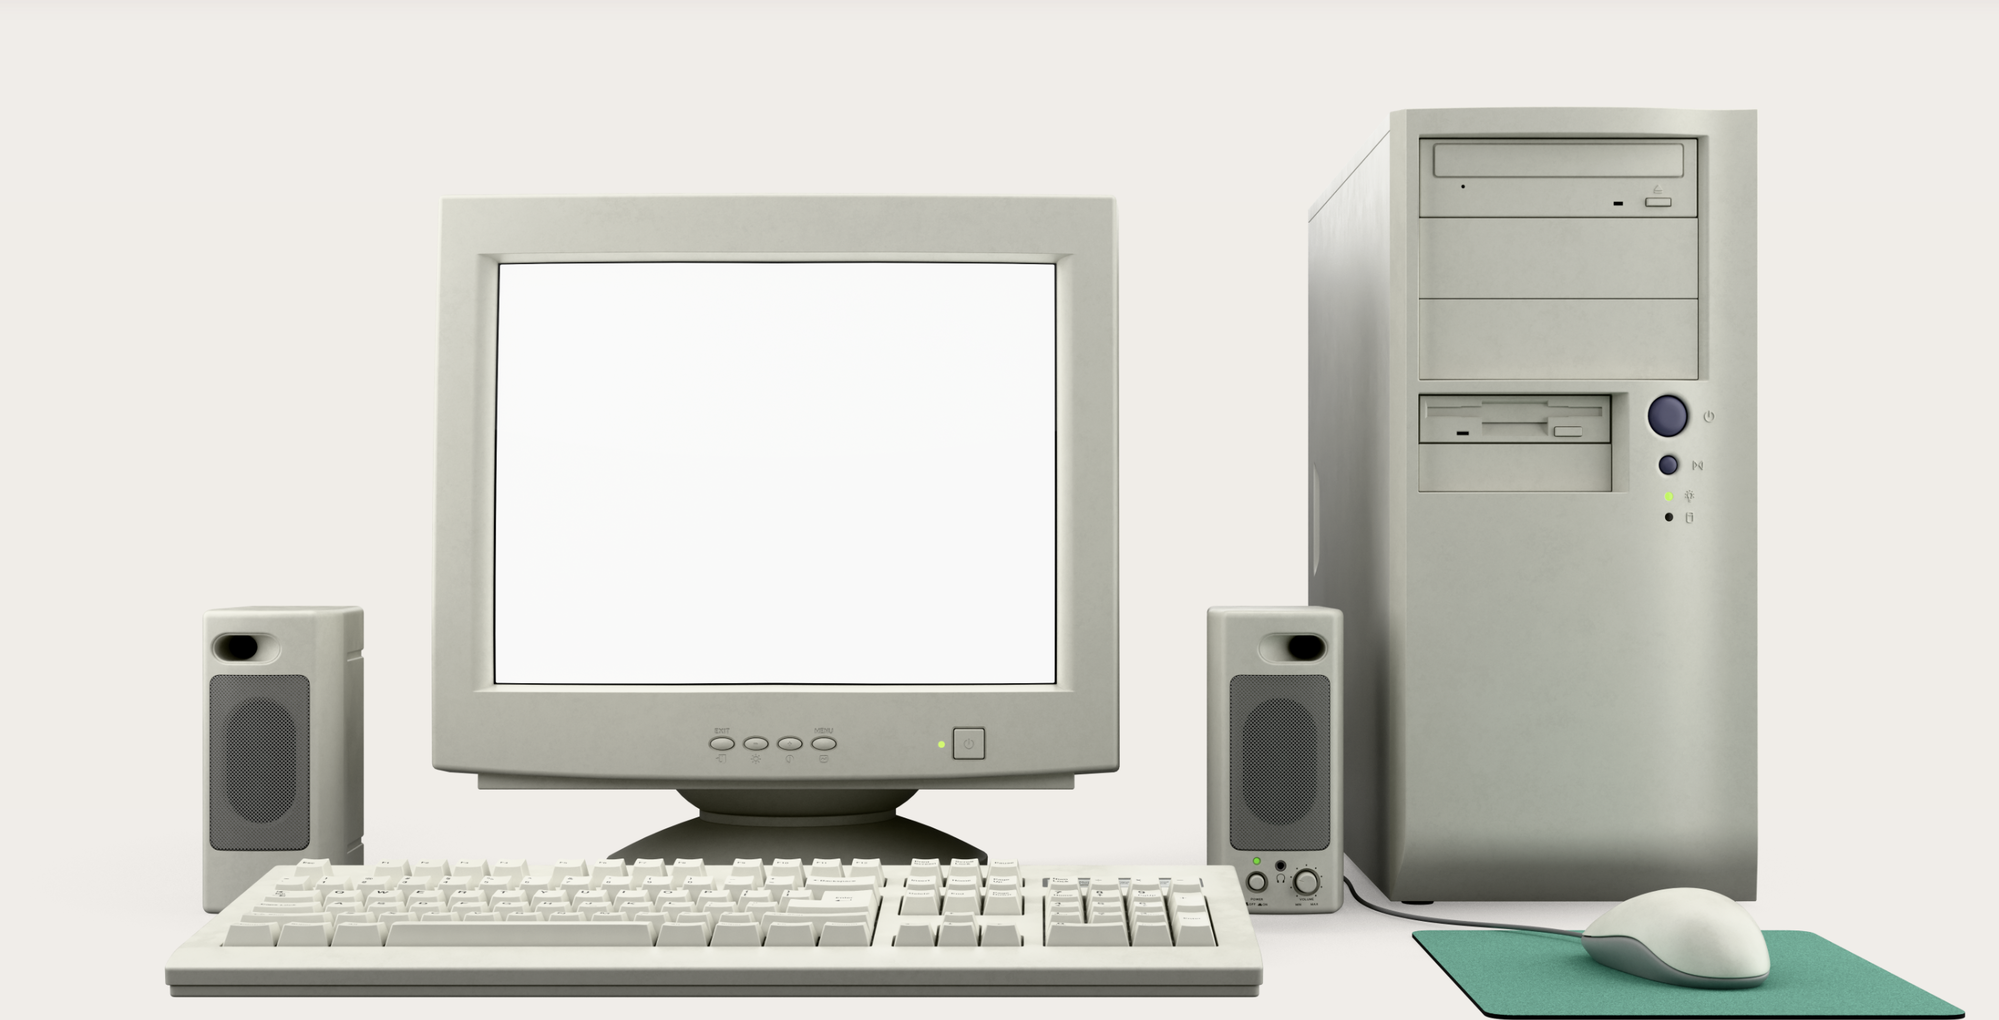
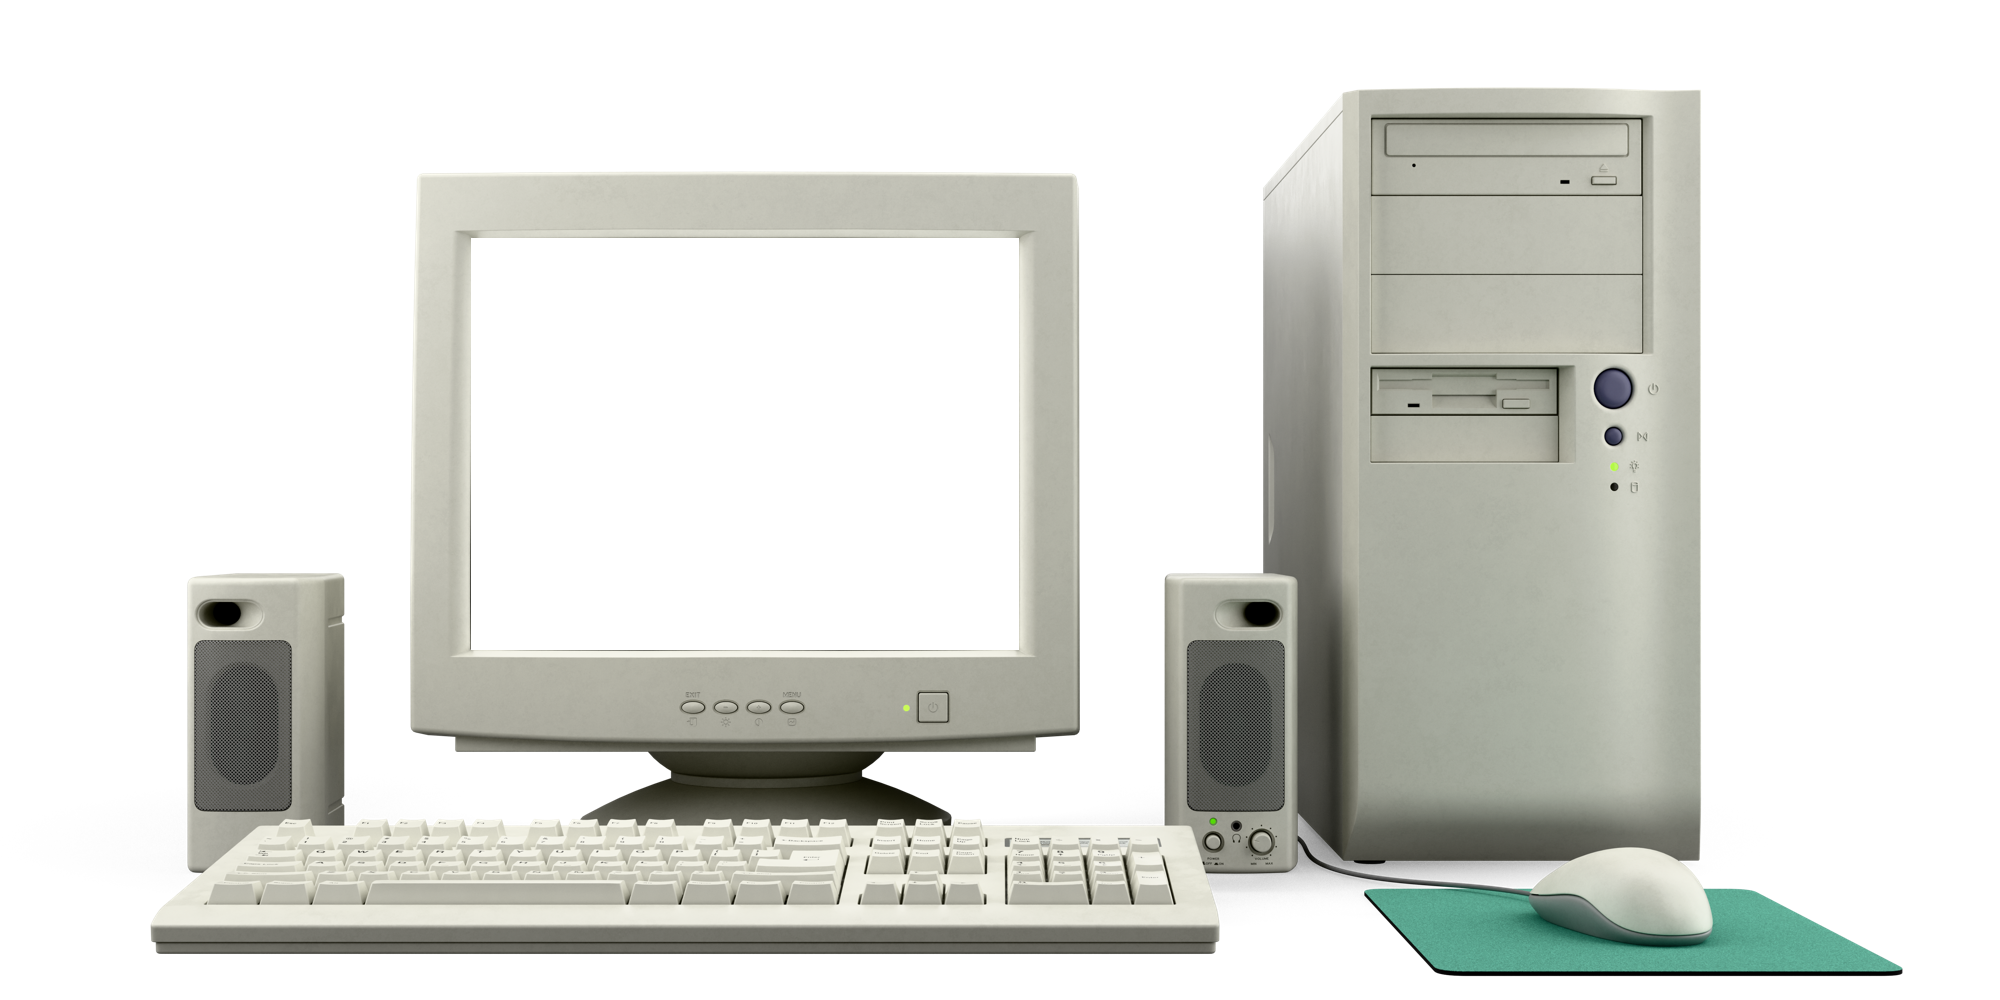
Refine CRT monitor screen, nav, and share scene for desktop/mobile
- Punch transparent hole in tvstock1.png at exact screen area with dark
  rim preserved; remove white transition and shadow ring pixels so game
  fills cleanly to the gray bezel
- Position iframe/screen-fx to match the transparent hole precisely
- Fix dark rim rows accidentally zeroed by earlier flood-fill passes
- Cap monitor width with min(100%, 2*(100dvh-4rem)) to prevent scrolling
- Tighten nav padding and reduce page-wrap top margin (4.5rem → 2rem)
- Center monitor horizontally on mobile; adjust top offset
- Add center grain line on portrait share scene table so gap is even
- Adjust share scene camera on mobile to frame vase/cups better
- Increase brand font size (2.8rem desktop, 2.0rem mobile)

Changed region(s): [[0.062, 0.062, 0.9925, 1.0], [0.0, 0.0, 1.0, 0.031]]

diff --git a/index.html b/index.html
@@ -29,7 +29,7 @@
 
     body {
       font-family: 'Lora', serif;
-      background: var(--bg);
+      background: var(--panel);
       color: var(--dark);
       min-height: 100vh;
     }
@@ -42,12 +42,12 @@
       display: flex;
       align-items: center;
       justify-content: space-between;
-      padding: 1.1rem 2.5rem;
+      padding: 0.6rem 2.5rem;
       background: var(--panel);
     }
     .brand {
       font-family: 'Dirtyline', serif;
-      font-size: 1.9rem;
+      font-size: 2.8rem;
       font-weight: normal;
       font-style: normal;
       color: var(--dark);
@@ -89,27 +89,6 @@
     .tab-panel.hidden { display: none; }
 
     /* ── HOME: POTTERY WHEEL ── */
-    .home-footer {
-      display: flex;
-      justify-content: center;
-      gap: 2.5rem;
-      padding: 1.6rem 2rem;
-      background: var(--panel);
-    }
-    .home-footer a {
-      display: flex;
-      align-items: center;
-      gap: 0.5rem;
-      text-decoration: none;
-      color: var(--mid);
-      font-size: 0.8rem;
-      font-weight: 700;
-      letter-spacing: 0.1em;
-      text-transform: uppercase;
-      transition: color 0.2s, transform 0.2s;
-    }
-    .home-footer a:hover { color: var(--dark); transform: translateY(-2px); }
-    .home-footer svg { width: 20px; height: 20px; }
     /* ── HOME: COMPUTER PHOTO FRAME ── */
     .monitor-scene {
       position: relative;
@@ -117,8 +96,9 @@
     }
     .monitor-frame {
       position: relative;
-      width: 100%;
-      aspect-ratio: 1999 / 1020;
+      width: min(100%, calc(2 * (100dvh - 4rem)));
+      margin-left: 0;
+      aspect-ratio: 2000 / 1000;
     }
     .monitor-svg {
       position: absolute;
@@ -130,20 +110,20 @@
     }
     .monitor-iframe {
       position: absolute;
-      top: 25.3%;
-      left: 24.5%;
-      width: 28.8%;
-      height: 42.1%;
+      top: 23.3%;
+      left: 23.05%;
+      width: 28.4%;
+      height: 42.2%;
       border: none;
       z-index: 1;
     }
     /* CRT scanlines + vignette over the screen */
     .screen-fx {
       position: absolute;
-      top: 25.3%;
-      left: 24.5%;
-      width: 28.8%;
-      height: 42.1%;
+      top: 23.3%;
+      left: 23.05%;
+      width: 28.4%;
+      height: 42.2%;
       pointer-events: none;
       z-index: 3;
     }
@@ -166,7 +146,7 @@
     .monitor-frame { transition: opacity 0.5s ease; }
     .play-screen {
       position: absolute;
-      top: 25.3%; left: 24.5%; width: 28.8%; height: 42.1%;
+      top: 23.3%; left: 23.05%; width: 28.4%; height: 42.2%;
       z-index: 6; cursor: pointer;
       display: flex; align-items: center; justify-content: center;
       animation: playscreenin 0.7s ease 4s both;
@@ -251,7 +231,7 @@
     /* ── SHARED PAGE LAYOUT ── */
     .page-wrap {
       width: min(900px, 92vw);
-      margin: 4.5rem auto 7rem;
+      margin: 2rem auto 7rem;
     }
     .page-header { margin-bottom: 3rem; }
     .section-eyebrow {
@@ -719,7 +699,9 @@
 
     /* ── MOBILE ── */
     @media (max-width: 680px) {
-      nav { padding: 1rem 1.2rem; }
+      nav { padding: 1rem 1.2rem; align-items: center; }
+      .brand { font-size: 2.0rem; display: flex; align-items: center; }
+      .nav-hamburger { align-self: center; padding: 0; }
       .nav-hamburger { display: flex; }
       .nav-tabs {
         display: none;
@@ -745,17 +727,9 @@
       .contact-grid { grid-template-columns: 1fr; }
       .page-wrap { margin-top: 1.5rem; }
 
-      /* pottery wheel: crop to just the monitor on mobile */
-      .monitor-scene {
-        height: 380px;
-        overflow: hidden;
-      }
-      .monitor-frame {
-        position: absolute;
-        width: 270%;
-        left: -52%;
-        top: -50px;
-      }
+      /* fill viewport below nav on mobile */
+      .monitor-scene { height: calc(100dvh - 64px); overflow: hidden; }
+      .monitor-frame { position: absolute; width: 270%; left: -50.6%; top: 20px; }
 
     }
   </style>
@@ -790,35 +764,18 @@
         <div class="screen-fx"></div>
         <div class="play-screen" id="play-screen">
           <svg class="play-btn" viewBox="0 0 100 100" xmlns="http://www.w3.org/2000/svg">
-            <circle cx="50" cy="50" r="44" fill="rgba(0,0,0,0.12)" stroke="rgba(0,0,0,0.75)" stroke-width="2.5"/>
-            <polygon points="38,28 76,50 38,72" fill="rgba(0,0,0,0.85)"/>
+            <circle cx="50" cy="50" r="44" fill="rgba(0,0,0,0.12)" stroke="rgba(60,60,60,0.75)" stroke-width="2.5"/>
+            <polygon points="38,28 76,50 38,72" fill="rgba(60,60,60,0.85)"/>
           </svg>
         </div>
-        <svg class="monitor-svg" viewBox="0 0 1999 1020" xmlns="http://www.w3.org/2000/svg" aria-hidden="true">
-          <defs>
-            <mask id="screen-mask">
-              <rect width="1999" height="1020" fill="white"/>
-              <rect x="495" y="262" width="563" height="423" fill="black" rx="4" ry="4"/>
-            </mask>
-          </defs>
-          <image href="images/tvstock1.png" width="1999" height="1020" mask="url(#screen-mask)"/>
+        <svg class="monitor-svg" viewBox="0 0 2000 1000" xmlns="http://www.w3.org/2000/svg" aria-hidden="true">
+          <image href="images/tvstock1.png" width="2000" height="1000"/>
         </svg>
       </div>
 
       <div class="wheel-fullscreen" id="wheel-fullscreen">
         <iframe id="wheel-fullscreen-iframe" title="Pottery Wheel Full" scrolling="no"></iframe>
       </div>
-    </div>
-
-    <div class="home-footer">
-      <a href="https://instagram.com/mintyrachel" target="_blank" rel="noopener" aria-label="Instagram">
-        <svg viewBox="0 0 24 24" fill="none" stroke="currentColor" stroke-width="1.8" stroke-linecap="round" stroke-linejoin="round">
-          <rect x="2" y="2" width="20" height="20" rx="5" ry="5"/>
-          <circle cx="12" cy="12" r="4"/>
-          <circle cx="17.5" cy="6.5" r="0.8" fill="currentColor" stroke="none"/>
-        </svg>
-        <span>@mintyrachel</span>
-      </a>
     </div>
 
   </section>

diff --git a/pottery_wheel/index.html b/pottery_wheel/index.html
@@ -2313,6 +2313,10 @@
       const grainZ = tableD - 0.02;
       if (sharePortrait) {
         const grainSpacing = 0.55;
+        // Center line so gap at x=0 matches all other gaps
+        const centerStrip = new THREE.Mesh(new THREE.BoxGeometry(0.014, 0.003, grainZ), grainMat);
+        centerStrip.position.set(0, -1.099, tableZCenter);
+        shareSceneGroup.add(centerStrip);
         for (let n = 1; n * grainSpacing < tableW / 2; n++) {
           [-1, 1].forEach(side => {
             const strip = new THREE.Mesh(new THREE.BoxGeometry(0.014, 0.003, grainZ), grainMat);
@@ -2458,8 +2462,8 @@
       });
 
       if (innerWidth < innerHeight) {
-        camera.position.set(0, 0.5, 4.2);
-        camera.lookAt(0, -1.1, 0);
+        camera.position.set(0, 0.2, 4.2);
+        camera.lookAt(0, -1.5, 0);
       } else {
         camera.position.set(0, 1.4, 5.8);
         camera.lookAt(0, -0.2, 0);
